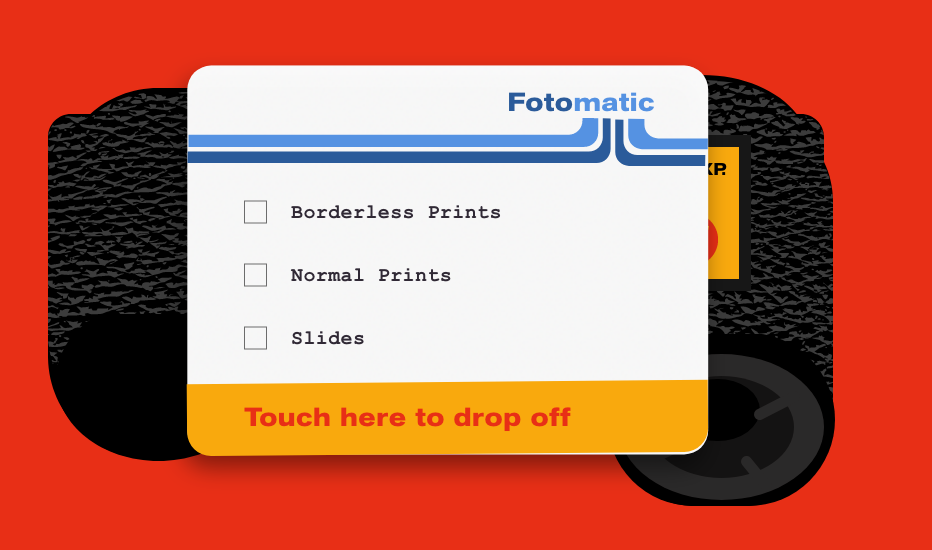
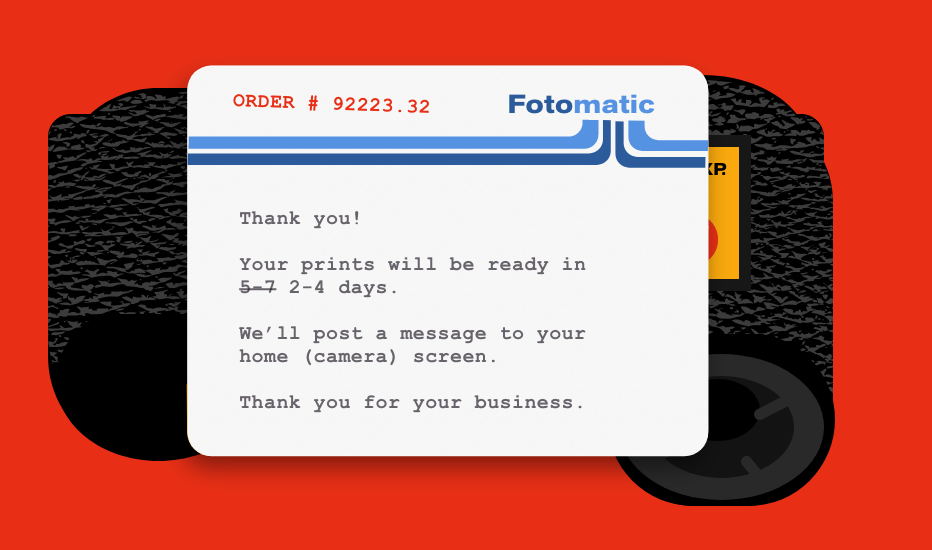
tweaked walkthrought mockup

diff --git a/index.html b/index.html
@@ -9,7 +9,7 @@ if(screen===1){to('Open camera',310,235,255,265,2);to('Pick up finished film',0,
 if(screen===2){to('Take picture and finish test roll',48,25,710,490,3);to('Shutter: finish test roll',760,155,150,230,3);to('Return to camera',755,0,170,145,1)}
 if(screen===3){to('Drop off film for processing',222,143,477,140,4);to('Return to camera',35,315,160,190,1)}
 if(screen===4){['Borderless prints','Normal prints','Slides'].forEach((l,i)=>spot(l,235,192+i*63,420,45,()=>{choices.clear();choices.add(i);show()},choices.has(i)));to('Submit film',187,382,520,74,5);to('Cancel drop-off',0,0,180,550,3)}
-if(screen===5){to('Complete drop-off and return to camera',187,382,520,74,1);to('Return to camera',187,65,520,317,1)}
+if(screen===5){to('Background: return to homepage',0,0,932,550,1)}
 if(screen===6){to('Open front envelope',230,40,702,460,7);to('Open another envelope',0,50,230,450,9);to('Return to camera',0,0,932,38,1)}
 if(screen===7||screen===9){to('Return to envelopes',0,0,110,550,6);to('Flip picture to see options',220,75,555,410,8);to('Next picture',775,0,157,550,screen===7?9:7);to('Previous picture',110,0,110,550,screen===7?9:7)}
 if(screen===8){to('Flip back to picture',285,80,520,110,7);['Share this picture','Order more prints','Crop or fix exposure'].forEach((l,i)=>spot(l,399,190+i*63,380,50,()=>{document.querySelector('#message').textContent=l+' — this action is a placeholder in the screen prototype.';document.querySelector('#notice').showModal()}));to('Return to envelopes',0,0,115,550,6);to('Flip back to picture',285,390,520,80,7)}
